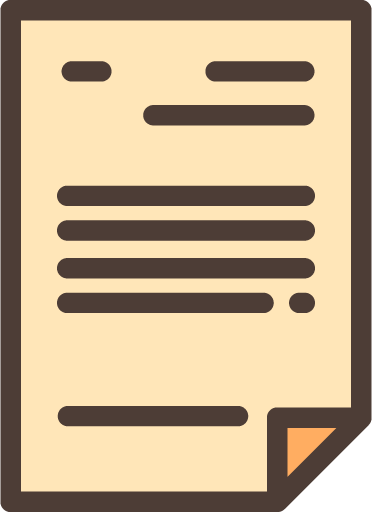
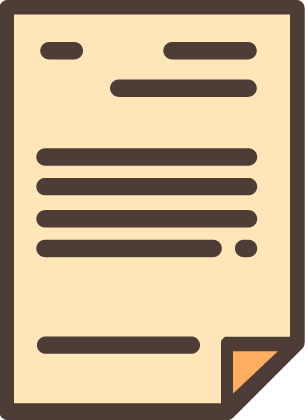
Finished ADV-3. Many bugfixes.

diff --git a/js/levels.js b/js/levels.js
@@ -614,7 +614,8 @@ function InitiateLevel(group, level, levelStructure) {
 
         var levelContainer = new createjs.Container();
 
-        var textInput = document.getElementById('caveInputText');
+        var textInput = document.getElementById('inputTextFirst');
+        textInput.placeholder = genericText.answer;
         textInput.style.display = "none";
 
         var metrics = [];
@@ -663,7 +664,6 @@ function InitiateLevel(group, level, levelStructure) {
         var congratTextB = new createjs.Text(genericText.lvl4CongrTextB, "700 28px Roboto", color.whitePimary);
         congratTextB = alignTextToStageCenter(stage, congratTextB);
         congratTextB.y = 140;
-
 
         var questionLabel = new createjs.Text(" ", "700 28px Roboto", color.whitePimary);
         questionLabel = alignTextToStageCenter(stage, questionLabel);
@@ -717,7 +717,7 @@ function InitiateLevel(group, level, levelStructure) {
             textInput.style.padding = "15px";
             textInput.style.background = "rgba(255,255,255,0.5)";
 
-            var inputDomElement = new createjs.DOMElement('caveInputText');
+            var inputDomElement = new createjs.DOMElement('inputTextFirst');
             inputDomElement.visible = true;
 
 
@@ -839,12 +839,12 @@ function InitiateLevel(group, level, levelStructure) {
 
         var levelContainer = new createjs.Container();
 
-        var textInput1 = document.getElementById('caveInputText');
+        var textInput1 = document.getElementById('inputTextFirst');
         textInput1.placeholder = genericText.latitude;
         textInput1.style.display = "none";
 
-        var textInput2 = document.getElementById('caveInputText2');
-        textInput1.placeholder = genericText.longitude;
+        var textInput2 = document.getElementById('inputTextSecond');
+        textInput2.placeholder = genericText.longitude;
         textInput2.style.display = "none";
 
         var textElement1 = document.getElementById('caveLatText');
@@ -1124,7 +1124,7 @@ function InitiateLevel(group, level, levelStructure) {
                     if (taskList.end) {
                         window.loggingMediator.unregisterFunction();
 
-                        results = [levelContainer, metrics];
+                        results = [task, metrics];
 
                         createjs.Tween.get(actualLevel)
                             .wait(1000)
@@ -1233,7 +1233,7 @@ function InitiateLevel(group, level, levelStructure) {
 
                         window.loggingMediator.unregisterFunction();
 
-                        results = [levelContainer, metrics];
+                        results = [taskContainer, metrics];
 
                         createjs.Tween.get(actualLevel)
                             .wait(1000)
@@ -1263,9 +1263,8 @@ function InitiateLevel(group, level, levelStructure) {
 
         // Create task list. All must be set to true to finish level
         var taskList = [];
-        taskList.click = false;
         taskList.edit = false;
-        taskList.phrase = '';
+        taskList.phrase = "";
         taskList.abort = false;
         taskList.end = false;
 
@@ -1279,6 +1278,8 @@ function InitiateLevel(group, level, levelStructure) {
             tasksLabel = alignTextToStageCenter(stage, tasksLabel);
             tasksLabel.y = 80;
 
+            tasksLabel.x = tasksLabel.x + 100;
+
             taskContainer.addChild(tasksLabel);
 
             var taskLabel = [];
@@ -1290,9 +1291,10 @@ function InitiateLevel(group, level, levelStructure) {
                 taskLabel[idx] = alignTextToStageCenter(stage, taskLabel[idx]);
                 taskLabel[idx].y = (idx === 0) ? 160 : taskLabel[idx-1].y + 60;
                 taskLabel[idx].alpha = 0.54;
+                taskLabel[idx].x = taskLabel[idx].x + 100;
 
                 checkmark[idx] = new createjs.Bitmap("assets/adv/checkmark.png");
-                checkmark[idx].x = taskLabel[idx].x - 50;
+                checkmark[idx].x = taskLabel[idx].x + 50;
                 checkmark[idx].y = taskLabel[idx].y - 10;
                 checkmark[idx].alpha = 0;
 
@@ -1300,12 +1302,40 @@ function InitiateLevel(group, level, levelStructure) {
                 idx++;
             }
 
+            var quoteDoc = new createjs.Bitmap("assets/adv/doc-after.png");
+            quoteDoc.x = 130;
+            quoteDoc.y = 160;
 
-            var document = new createjs.Bitmap("assets/adv/doc-before.png");
-            document.x = (stage.canvas.width/2) - 186;
-            document.y = (stage.canvas.height/2) - 256;
+            var quoteFirstLine = new createjs.Text(genericText.advQuote1, "500 24px Roboto", "#4D3D36");
+            quoteFirstLine.x = quoteDoc.x + 60;
+            quoteFirstLine.y = 230;
 
-            stage.addChild(taskContainer, document);
+            var quoteSecondLine = new createjs.Text(genericText.advQuote2, "500 24px Roboto", "#4D3D36");
+            quoteSecondLine.x = quoteDoc.x + 55;
+            quoteSecondLine.y = 320;
+
+            taskContainer.addChild(quoteDoc, quoteFirstLine, quoteSecondLine);
+            stage.addChild(taskContainer);
+
+            var textInput = document.getElementById('inputTextFirst');
+            textInput.style.display = "block";
+            textInput.style.position = "absolute";
+            textInput.placeholder = " ";
+            textInput.style.left = quoteDoc.x + 50 + "px";
+            textInput.style.top = "410px";
+            textInput.style.border = "none";
+            textInput.style.padding = "15px";
+            textInput.style.width = "210px";
+            textInput.style.background = color.transparent;
+            textInput.style.fontSize = "24px";
+            textInput.style.fontWeight = "500";
+            textInput.style.color = "#4D3D36";
+
+            textInput.addEventListener("click", function () {
+                taskList.edit = true;
+                taskLabel[0].alpha = 1;
+                checkmark[0].alpha = 1;
+            });
 
             // Start communication with GTW
             if (window.loggingMediator) {
@@ -1314,51 +1344,47 @@ function InitiateLevel(group, level, levelStructure) {
 
                     console.log(string);
 
-                    if (string === 'tabs') {
-                        taskList.tabs = true;
-                        taskLabel[0].alpha = 1;
-                        checkmark[0].alpha = 1;
-                    }
-
-                    if (string === 'edit') {
-                        taskList.new_tab = true;
-                        taskLabel[1].alpha = 1;
-                        checkmark[1].alpha = 1;
-                    }
-
-                    if (string === 'keystroke') {
-                        taskList.type++;
-
-                        if (taskList.type > 8) {
-                            taskList.url = true;
-                            taskLabel[2].alpha = 1;
-                            checkmark[2].alpha = 1;
-                        }
-                    }
-
-                    if (string === 'close' && taskList.url) {
-
-                        taskLabel[3].alpha = 1;
-                        checkmark[3].alpha = 1;
-
-                        taskLabel[4].alpha = 1;
-                        checkmark[4].alpha = 1;
-
-                        window.loggingMediator.unregisterFunction();
-
-                        results = [levelContainer, metrics];
+                    if (string === 'submit' || string === 'close') {
 
                         createjs.Tween.get(actualLevel)
                             .wait(1000)
-                            .call(endLevel);
+                            .call(getTextValue);
+                    }
 
+                    function getTextValue() {
+
+                        taskList.phrase = document.getElementById("inputTextFirst").value;
+
+                        console.log(taskList.phrase);
+
+                        if (taskList.phrase === advThirdInstructions.phrase) {
+
+                            taskLabel[1].alpha = 1;
+                            checkmark[1].alpha = 1;
+                            taskLabel[2].alpha = 1;
+                            checkmark[2].alpha = 1;
+                            taskLabel[3].alpha = 1;
+                            checkmark[3].alpha = 1;
+                            taskLabel[4].alpha = 1;
+                            checkmark[4].alpha = 1;
+
+                            /*textInput.style.display = "none";*/
+
+                            window.loggingMediator.unregisterFunction();
+
+                            results = [taskContainer, metrics];
+
+                            createjs.Tween.get(actualLevel)
+                                .wait(1000)
+                                .call(endLevel);
+                        }
                     }
                 });
             }
         });
 
-        stage.addChild(levelContainer);
         stage.addChild(backgroundColor);
+        stage.addChild(levelContainer);
         stage.setChildIndex(backgroundColor, 0);
         stage.setChildIndex( mousePointer, stage.getNumChildren()-1);
     }
@@ -1528,7 +1554,38 @@ function InitiateLevel(group, level, levelStructure) {
                         levelComplete = true;
                     }
                 }
+                else if (level === 2) {
 
+                    stage.removeChild(results[0]); // remove container
+                    metrics = results[1];
+
+                    /*if (metrics.submit === metrics.pass) {
+                     trophy.current = true;
+                     }*/
+
+                    score.current = parseInt(scoreBounds.level33 - (stopwatch.time()), 10);
+
+                    // Have a good score!
+                    if (score.current > scoreThreshold.level33) {
+                        levelComplete = true;
+                    }
+                }
+                else if (level === 3) {
+
+                    stage.removeChild(results[0]); // remove container
+                    metrics = results[1];
+
+                    /*if (metrics.submit === metrics.pass) {
+                     trophy.current = true;
+                     }*/
+
+                    score.current = parseInt(scoreBounds.level34 - (stopwatch.time()), 10);
+
+                    // Have a good score!
+                    if (score.current > scoreThreshold.level34) {
+                        levelComplete = true;
+                    }
+                }
                 break;
         }
 

diff --git a/text.js b/text.js
@@ -218,13 +218,16 @@ var genericText =
         lvl4CongrTextB: "Your real test begins now!",
         lvl4ScrollDesc: "Use the ZOOM button to read the available answers, then type the answer below!",
         clickMe: "Click me!",
-        latitude: "latitude",
-        longitude: "longitude",
+        latitude: "Latitude",
+        longitude: "Longitude",
+        answer: "Answer",
         lvl5CongrText: "You have been deemed worthy! Now find the treasure!",
         coordinates: "COORDINATES",
         lvl5ScrollDesc: "use the",
         signedOut: "USER IS SIGNED OUT",
-        tasks: "Tasks"
+        tasks: "Tasks",
+        advQuote1: "Be The Change",
+        advQuote2: "That You Want To"
     };
 
 var advFirstInstructions =
@@ -246,11 +249,10 @@ var advSecondInstructions =
     };
 var advThirdInstructions =
     {
-        click: "Click on the document to reveal the text",
-        editUrl: "Edit text",
+        editUrl: "Click on the text element",
         typeUrl: "Type the missing phrase:",
-        phrase: "see in the world",
-        abort: "Close keyboard",
+        phrase: "See In The World",
+        abort: "Submit",
         taskComplete: "Level completed"
     };
 

diff --git a/index.html b/index.html
@@ -12,8 +12,8 @@
 <body onload="init();">
 
 <canvas id="canvas"></canvas>
-<input placeholder="Answer" type="text" style="display: none;" id="caveInputText">
-<input placeholder="Longitude" type="text" style="display: none;" id="caveInputText2">
+<input placeholder="Answer" type="text" style="display: none;" id="inputTextFirst">
+<input placeholder="Longitude" type="text" style="display: none;" id="inputTextSecond">
 
 <p class="textStyle" style="display: none;" id="caveLatText">40.6401° N</p>
 <p class="textStyle" style="display: none;" id="caveLngText">22.9444° E</p>

diff --git a/js/main.js b/js/main.js
@@ -23,8 +23,6 @@ function init() {
         resizeCanvas();
         renderGame();
     });
-
-
 }
 
 function renderGame() {
